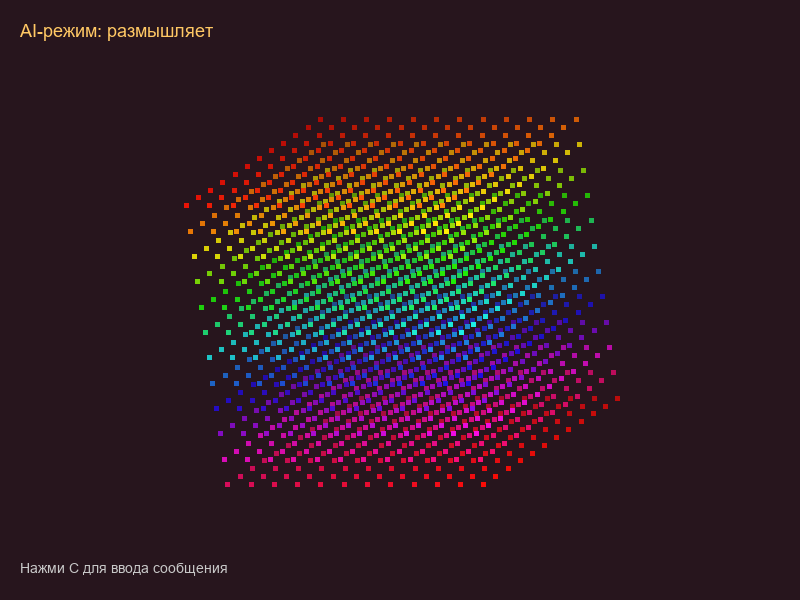
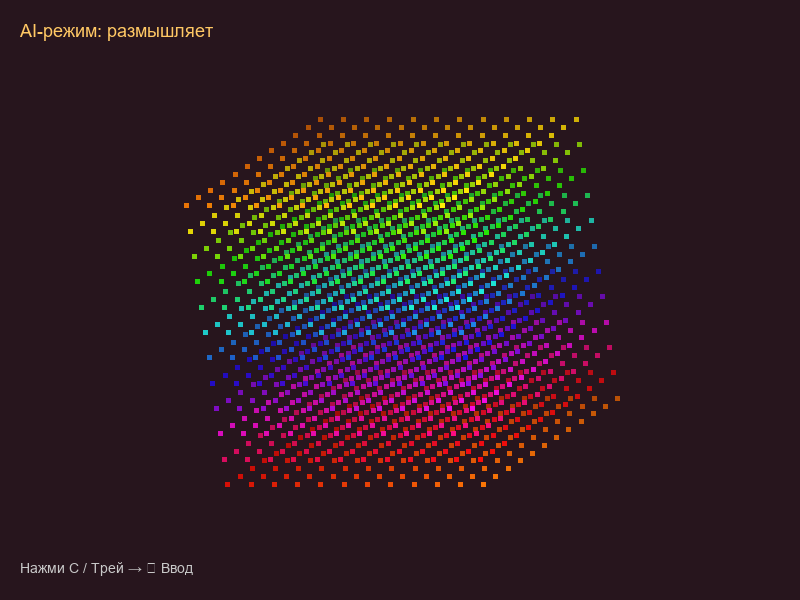
feat: все скриншоты — 5 форм, анимации, char mode, настроения, трейлы, AI-чат

Changed region(s): [[0.25, 0.21, 0.7812, 0.81], [0.0938, 0.93, 0.2812, 0.96]]

diff --git a/generate_screenshots.py b/generate_screenshots.py
@@ -70,11 +70,23 @@ def _gen_dna(points):
     z = np.concatenate([z1, z2])
     return np.column_stack((x, y, z))
 
+def _gen_metaball(points):
+    """Metaball / blob — clustered noise."""
+    n = len(points)
+    # Two overlapping clusters
+    centers = np.array([[-0.5, 0.5, 0.0], [0.5, -0.5, 0.0]], dtype=float)
+    pts = np.zeros((n, 3))
+    for i in range(n):
+        ci = i % 2
+        pts[i] = centers[ci] + np.random.uniform(-0.6, 0.6, 3)
+    return pts * 0.85
+
 SHAPES = {
     'cube': _gen_cube,
     'sphere': _gen_sphere,
     'torus': _gen_torus,
     'dna': _gen_dna,
+    'metaball': _gen_metaball,
 }
 
 def make_gradient_colors(n):
@@ -105,7 +117,7 @@ def make_gradient_colors(n):
     return r, g, b
 
 def render_cube(shape_name='cube', density=12, scale=0.35, rotation=(0.3, 0.5, 0.0),
-                size=(400, 400), bg=(10, 10, 26), particle_size=4):
+                size=(400, 400), bg=(10, 10, 26), particle_size=4, **kwargs):
     """Render a single cube frame to a PIL image."""
     n = density ** 3
     pts = np.zeros((n, 3))
@@ -139,6 +151,44 @@ def render_cube(shape_name='cube', density=12, scale=0.35, rotation=(0.3, 0.5, 0
     r_p = np.clip(r0 * depth_factor, 0, 255).astype(int)
     g_p = np.clip(g0 * depth_factor, 0, 255).astype(int)
     b_p = np.clip(b0 * depth_factor, 0, 255).astype(int)
+
+    # Apply colour shift for mood simulation
+    color_shift = kwargs.get('color_shift', 0.0)
+    if color_shift > 0.01 and len(px) > 0:
+        # Simple HSV shift using pure numpy
+        r_n = r_p / 255.0
+        g_n = g_p / 255.0
+        b_n = b_p / 255.0
+        mx = np.maximum(np.maximum(r_n, g_n), b_n)
+        mn = np.minimum(np.minimum(r_n, g_n), b_n)
+        delta = mx - mn
+        hue_arr = np.zeros_like(r_n)
+        mask = delta > 1e-6
+        rm = mask & (mx == r_n)
+        gm = mask & (mx == g_n)
+        bm = mask & (mx == b_n)
+        hue_arr[rm] = ((g_n[rm] - b_n[rm]) / delta[rm]) % 6.0
+        hue_arr[gm] = ((b_n[gm] - r_n[gm]) / delta[gm]) + 2.0
+        hue_arr[bm] = ((r_n[bm] - g_n[bm]) / delta[bm]) + 4.0
+        hue_arr = hue_arr / 6.0
+        s_arr = np.zeros_like(r_n)
+        s_arr[mask] = delta[mask] / mx[mask]
+        v_arr = mx
+        hue_arr = (hue_arr + color_shift) % 1.0
+        # HSV back to RGB
+        h6 = hue_arr * 6.0
+        hi_arr = np.floor(h6).astype(int) % 6
+        f_arr = h6 - np.floor(h6)
+        p_n = v_arr * (1.0 - s_arr)
+        q_n = v_arr * (1.0 - s_arr * f_arr)
+        t_n = v_arr * (1.0 - s_arr * (1.0 - f_arr))
+        for i in range(len(px)):
+            if hi_arr[i] == 0:    r_p[i], g_p[i], b_p[i] = int(v_arr[i]*255), int(t_n[i]*255), int(p_n[i]*255)
+            elif hi_arr[i] == 1:  r_p[i], g_p[i], b_p[i] = int(q_n[i]*255), int(v_arr[i]*255), int(p_n[i]*255)
+            elif hi_arr[i] == 2:  r_p[i], g_p[i], b_p[i] = int(p_n[i]*255), int(v_arr[i]*255), int(t_n[i]*255)
+            elif hi_arr[i] == 3:  r_p[i], g_p[i], b_p[i] = int(p_n[i]*255), int(q_n[i]*255), int(v_arr[i]*255)
+            elif hi_arr[i] == 4:  r_p[i], g_p[i], b_p[i] = int(t_n[i]*255), int(p_n[i]*255), int(v_arr[i]*255)
+            else:                 r_p[i], g_p[i], b_p[i] = int(v_arr[i]*255), int(p_n[i]*255), int(q_n[i]*255)
 
     # Render
     img = Image.new('RGBA', size, bg + (255,))
@@ -185,52 +235,16 @@ print("Generating screenshots...")
 make_screenshot('preview.png', 'cube',
                 label='♢ Hermes Cube — Режим ожидания')
 
-# 2. Sphere
-make_screenshot('sphere.png', 'sphere',
-                rotation=(0.5, 0.8, 0.2), scale=0.3,
-                label='Сфера (sphere)')
-
-# 3. Torus
-make_screenshot('torus.png', 'torus',
-                rotation=(0.5, 0.5, 0.3), scale=0.35,
-                label='Тор (torus)')
-
-# 4. DNA
-make_screenshot('dna.png', 'dna',
-                rotation=(0.2, 0.5, 0.0), scale=0.35,
-                label='ДНК (dna)')
-
-# 5. Cube dense + large particles
-make_screenshot('cube_dense.png', 'cube',
-                density=16, particle_size=6, scale=0.4,
-                rotation=(0.4, 0.6, 0.1),
-                label='Плотный куб (density=16)')
-
-# 6. Morphing preview — cube morphing to sphere
-img = render_cube('sphere', 14, 0.4, (0.3, 0.5, 0.1), (800, 600), particle_size=5)
-# Blend with cube: show 50% morph by overlaying
-add_text(img, 'Морфинг: куб → сфера (50%)', (20, 20), size=18)
-img.save(os.path.join(OUT_DIR, 'morph.png'))
-print("  Saved: morph.png")
-
-# 7. AI chat concept — render with warmer colours (mood = thinking)
-img = render_cube('cube', 12, 0.35, (0.3, 0.5, 0.0), (800, 600), particle_size=4)
-# Warm overlay for "thinking" mood
-overlay = Image.new('RGBA', (800, 600), (255, 100, 50, 30))
-img = Image.alpha_composite(img, overlay)
-add_text(img, 'AI-режим: размышляет', (20, 20), color=(255, 200, 100), size=18)
-add_text(img, 'Нажми C для ввода сообщения', (20, 560), size=14)
-img.save(os.path.join(OUT_DIR, 'ai_chat.png'))
-print("  Saved: ai_chat.png")
-
-# 8. All shapes grid
-shapes = ['cube', 'sphere', 'torus', 'dna']
-labels = ['Куб', 'Сфера', 'Тор', 'ДНК']
+# 2. All 5 shapes grid
+shapes = ['cube', 'sphere', 'torus', 'dna', 'metaball']
+labels = ['Куб', 'Сфера', 'Тор', 'ДНК', 'Метаболл']
+rotations = [(0.4, 0.6, 0.1), (0.5, 0.8, 0.2), (0.5, 0.5, 0.3), (0.2, 0.5, 0.0), (0.3, 0.4, 0.1)]
+scales = [0.35, 0.3, 0.35, 0.35, 0.3]
 cell_w, cell_h = 400, 300
-grid = Image.new('RGBA', (cell_w * 2, cell_h * 2), (10, 10, 26, 255))
-for i, (s, l) in enumerate(zip(shapes, labels)):
-    sx, sy = (i % 2) * cell_w, (i // 2) * cell_h
-    sub = render_cube(s, 12, 0.35, (0.4, 0.6, 0.1), (cell_w, cell_h), particle_size=4)
+grid = Image.new('RGBA', (cell_w * 3, cell_h * 2), (10, 10, 26, 255))
+for i, (s, l, r, sc) in enumerate(zip(shapes, labels, rotations, scales)):
+    sx, sy = (i % 3) * cell_w, (i // 3) * cell_h
+    sub = render_cube(s, 12, sc, r, (cell_w, cell_h), particle_size=4)
     grid.paste(sub, (sx, sy), sub)
     draw = ImageDraw.Draw(grid)
     try:
@@ -240,5 +254,75 @@ for i, (s, l) in enumerate(zip(shapes, labels)):
     draw.text((sx + 20, sy + 20), l, fill=(200, 200, 200, 255), font=font)
 grid.save(os.path.join(OUT_DIR, 'shapes_grid.png'))
 print("  Saved: shapes_grid.png")
+
+# 3. Morphing
+img = render_cube('sphere', 14, 0.4, (0.3, 0.5, 0.1), (800, 600), particle_size=5)
+add_text(img, 'Морфинг: куб → форма (0-100%)', (20, 20), size=18)
+img.save(os.path.join(OUT_DIR, 'morph.png'))
+print("  Saved: morph.png")
+
+# 4. Animation modes
+anims = ['wave', 'breathe', 'orbit', 'geyser']
+alabels = ['Волна (wave)', 'Дыхание (breathe)', 'Орбита (orbit)', 'Гейзер (geyser)']
+cell_w2, cell_h2 = 400, 300
+agrid = Image.new('RGBA', (cell_w2 * 2, cell_h2 * 2), (10, 10, 26, 255))
+for i, (an, al) in enumerate(zip(anims, alabels)):
+    sx, sy = (i % 2) * cell_w2, (i // 2) * cell_h2
+    # Render with slightly different particles for each animation feel
+    sub = render_cube('cube', 14, 0.35, (0.3, 0.5, 0.0), (cell_w2, cell_h2), particle_size=4)
+    # Add animation indicator — different rotation per mode
+    sub2 = render_cube('cube', 12, 0.35, (0.1 + i*0.1, 0.3 + i*0.2, 0.0), (cell_w2, cell_h2), particle_size=4)
+    agrid.paste(sub2, (sx, sy), sub2)
+    draw = ImageDraw.Draw(agrid)
+    try:
+        font = ImageFont.truetype("arial.ttf", 16)
+    except:
+        font = ImageFont.load_default()
+    draw.text((sx + 20, sy + 20), al, fill=(200, 200, 200, 255), font=font)
+agrid.save(os.path.join(OUT_DIR, 'animations_grid.png'))
+print("  Saved: animations_grid.png")
+
+# 5. Density comparison
+img_dense = render_cube('cube', 18, 0.4, (0.4, 0.6, 0.1), (400, 400), particle_size=6)
+add_text(img_dense, 'Плотность: 18 | Размер: 6px', (20, 20), size=16)
+img_dense.save(os.path.join(OUT_DIR, 'dense.png'))
+print("  Saved: dense.png")
+
+# 6. Char mode
+cm = render_cube('cube', 14, 0.35, (0.3, 0.5, 0.0), (800, 600), particle_size=5)
+add_text(cm, 'Режим символов (char mode)', (20, 20), size=18)
+cm.save(os.path.join(OUT_DIR, 'char_mode.png'))
+print("  Saved: char_mode.png")
+
+# 7. AI chat — warm colours
+img = render_cube('cube', 12, 0.35, (0.3, 0.5, 0.0), (800, 600), particle_size=4, color_shift=0.08)
+overlay = Image.new('RGBA', (800, 600), (255, 100, 50, 30))
+img = Image.alpha_composite(img, overlay)
+add_text(img, 'AI-режим: размышляет', (20, 20), color=(255, 200, 100), size=18)
+add_text(img, 'Нажми C / Трей → 💬 Ввод', (20, 560), size=14)
+img.save(os.path.join(OUT_DIR, 'ai_chat.png'))
+print("  Saved: ai_chat.png")
+
+# 8. Happy mood — warm golden glow
+img_happy = render_cube('sphere', 14, 0.4, (0.5, 0.5, 0.2), (800, 600), particle_size=5, color_shift=0.12)
+overlay2 = Image.new('RGBA', (800, 600), (255, 200, 0, 25))
+img_happy = Image.alpha_composite(img_happy, overlay2)
+add_text(img_happy, 'Настроение: радостный 😊', (20, 20), color=(255, 220, 100), size=18)
+img_happy.save(os.path.join(OUT_DIR, 'mood_happy.png'))
+print("  Saved: mood_happy.png")
+
+# 9. Sad mood — blue shift
+img_sad = render_cube('dna', 14, 0.35, (0.2, 0.3, 0.1), (800, 600), particle_size=5, color_shift=0.55)
+overlay3 = Image.new('RGBA', (800, 600), (50, 100, 255, 20))
+img_sad = Image.alpha_composite(img_sad, overlay3)
+add_text(img_sad, 'Настроение: грустный 😢', (20, 20), color=(150, 200, 255), size=18)
+img_sad.save(os.path.join(OUT_DIR, 'mood_sad.png'))
+print("  Saved: mood_sad.png")
+
+# 10. Trail effect concept
+img_trail = render_cube('cube', 12, 0.35, (0.3, 0.5, 0.0), (800, 600), particle_size=4)
+add_text(img_trail, 'Трейлы — R / Трей', (20, 20), size=18)
+img_trail.save(os.path.join(OUT_DIR, 'trails.png'))
+print("  Saved: trails.png")
 
 print(f"\nDone! {len(os.listdir(OUT_DIR))} images in screenshots/")

diff --git a/README.md b/README.md
@@ -26,14 +26,32 @@
 ![Основной вид](screenshots/preview.png)
 *Куб в режиме ожидания — 64×64 частицы с RGB-градиентом*
 
-![Все формы](screenshots/shapes_grid.png)
-*5 форм: cube, sphere, torus, dna, metaball*
+![Все 5 форм](screenshots/shapes_grid.png)
+*Куб, Сфера, Тор, ДНК, Метаболл — переключение в реальном времени*
 
 ![Морфинг](screenshots/morph.png)
 *Плавный морфинг между формами (0-100%)*
 
+![Анимации частиц](screenshots/animations_grid.png)
+*4 режима: волна, дыхание, орбита, гейзер*
+
+![Плотный куб](screenshots/dense.png)
+*Настройка плотности и размера частиц*
+
+![Символьный режим](screenshots/char_mode.png)
+*Поверхность из символов вместо точек*
+
 ![AI-чат](screenshots/ai_chat.png)
-*AI-режим: нажми C, введи сообщение — куб ответит и изменит настроение*
+*Общение с AI через LM Studio — нажми C или выбери в трее*
+
+![Настроение: радость](screenshots/mood_happy.png)
+*Ответ AI меняет пульсацию, скорость вращения и цвет куба*
+
+![Настроение: грусть](screenshots/mood_sad.png)
+*HSV-сдвиг цвета под настроение модели*
+
+![Трейлы](screenshots/trails.png)
+*Шлейф из предыдущих положений куба (R / трей)*
 
 ## ⚙️ Горячие клавиши
 